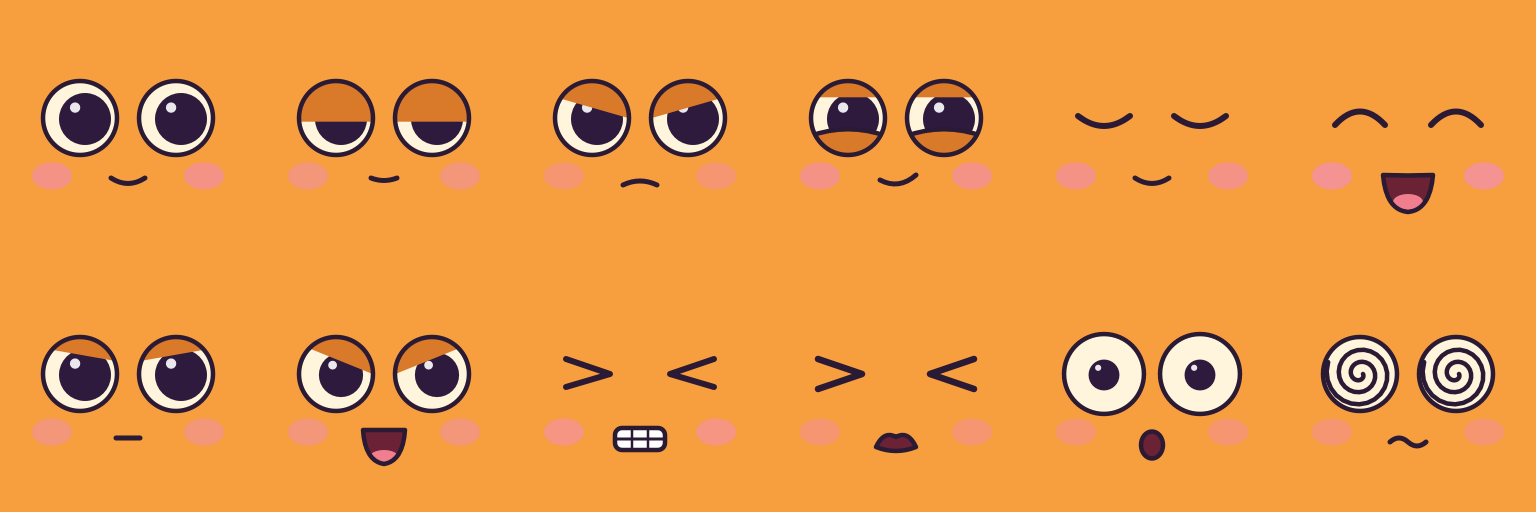
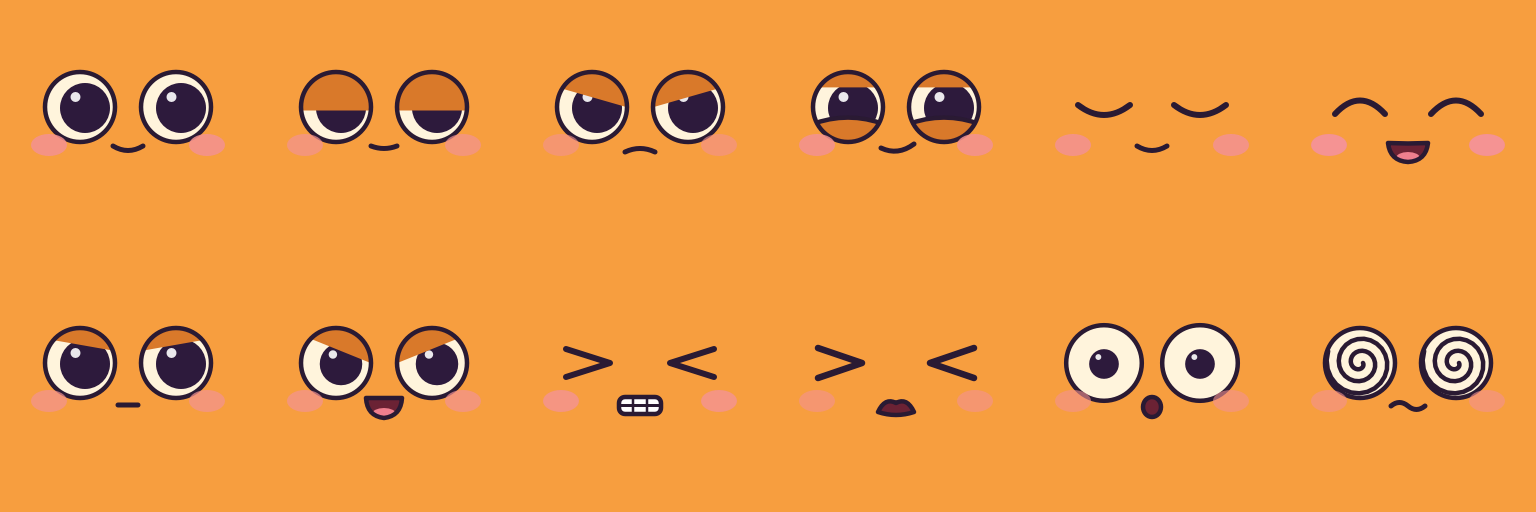
Faces: mouths and cheeks inside the face shell; glasses on the new eyes
The face shell only shows the drawing down to about row 320, so the redrawn faces' mouths and cheeks were cut off. Eyes, cheeks and
mouth now sit higher, as in the concept art; the glasses fit follows the eyes' new place.

diff --git a/tools/art/make_faces.py b/tools/art/make_faces.py
@@ -18,9 +18,11 @@ MOUTH_IN = '#6b2234'
 TONGUE = '#ef7f8e'
 LID = '#fe00ff'
 
-EYES = [(160, 236), (352, 236)]
-R_EYE = 74       # the cream ring's radius
-R_PUPIL = 52
+# The face shell shows the drawing down to about row 320, so everything sits above that: eyes, cheeks level with their bottoms, and
+# the mouth just under them, as in the concept art.
+EYES = [(160, 214), (352, 214)]
+R_EYE = 70       # the cream ring's radius
+R_PUPIL = 50
 LOOK = 10        # how far the pupils sit toward the right
 
 
@@ -29,7 +31,7 @@ def svg(body):
 
 
 def cheeks(op=0.85):
-    return ''.join(f'  <ellipse cx="{x}" cy="352" rx="40" ry="27" fill="{CHEEK}" opacity="{op}"/>\n' for x in (104, 408))
+    return ''.join(f'  <ellipse cx="{x}" cy="290" rx="36" ry="22" fill="{CHEEK}" opacity="{op}"/>\n' for x in (98, 414))
 
 
 def eye(cx, cy, scale=1.0, pupil=1.0, lid_top=None, lid_tilt=0.0, lower=None, look=LOOK, uid='e'):
@@ -66,14 +68,14 @@ def line(d, w=10):
     return f'  <path d="{d}" fill="none" stroke="{INK}" stroke-width="{w}" stroke-linecap="round" stroke-linejoin="round"/>\n'
 
 
-def smile(width=34, depth=22, y=356, w=10):
+def smile(width=30, depth=18, y=292, w=10):
     return line(f'M{256 - width},{y} Q256,{y + depth} {256 + width},{y}', w)
 
 
 def open_mouth(path, tongue=True):
     out = f'  <clipPath id="m"><path d="{path}"/></clipPath>\n  <path d="{path}" fill="{MOUTH_IN}"/>\n'
     if tongue:
-        out += f'  <ellipse cx="256" cy="404" rx="30" ry="16" fill="{TONGUE}" clip-path="url(#m)"/>\n'
+        out += f'  <ellipse cx="256" cy="316" rx="24" ry="12" fill="{TONGUE}" clip-path="url(#m)"/>\n'
     return out + f'  <path d="{path}" fill="none" stroke="{INK}" stroke-width="9" stroke-linejoin="round"/>\n'
 
 
@@ -88,21 +90,21 @@ FACES = {
     # The concept art's face: open, round, a small smile.
     'deadpan': eyes() + cheeks() + smile(),
     'sleepy': eyes(lid_top=0.55) + cheeks(0.7) + smile(26, 10),
-    'grumpy': eyes(lid_top=0.36, lid_tilt=16) + cheeks(0.6) + line('M222,370 Q256,354 290,370', 10),
-    'smug': eyes(lower=0.32, lid_top=0.22) + cheeks() + line('M224,360 Q262,380 296,350', 10),
+    'grumpy': eyes(lid_top=0.36, lid_tilt=16) + cheeks(0.6) + line('M226,304 Q256,290 286,304', 10),
+    'smug': eyes(lower=0.32, lid_top=0.22) + cheeks() + line('M226,296 Q260,312 292,288', 10),
     'blink': closed_eye(*EYES[0]) + closed_eye(*EYES[1]) + cheeks() + smile(),
     'happy': closed_eye(*EYES[0], happy=True) + closed_eye(*EYES[1], happy=True) + cheeks(1.0)
-    + open_mouth('M206,350 Q256,352 306,350 Q300,420 256,424 Q212,420 206,350 Z'),
-    'focus': eyes(lid_top=0.24, lid_tilt=10) + cheeks(0.7) + line('M232,364 L280,364', 10),
+    + open_mouth('M216,286 Q256,288 296,286 Q292,322 256,324 Q220,322 216,286 Z'),
+    'focus': eyes(lid_top=0.24, lid_tilt=10) + cheeks(0.7) + line('M236,298 L276,298', 10),
     'attack': eyes(lid_top=0.3, lid_tilt=22, pupil=0.85) + cheeks(0.7)
-    + open_mouth('M214,348 L298,348 Q294,410 256,416 Q218,410 214,348 Z'),
-    'effort': line('M108,206 L196,236 L108,262', 12) + line('M404,206 L316,236 L404,262', 12) + cheeks(0.8)
-    + f'  <rect x="206" y="344" width="100" height="44" rx="14" fill="#ffffff" stroke="{INK}" stroke-width="9"/>\n'
-    + line('M206,366 L306,366', 6) + line('M240,344 L240,388', 5) + line('M272,344 L272,388', 5),
-    'hurt': line('M100,206 L188,236 L100,266', 13) + line('M412,206 L324,236 L412,266', 13) + cheeks(0.6)
-    + open_mouth('M216,382 Q232,348 256,362 Q280,348 296,382 Q256,398 216,382 Z', tongue=False),
+    + open_mouth('M220,284 L292,284 Q290,320 256,324 Q222,320 220,284 Z'),
+    'effort': line('M108,186 L196,214 L108,242', 12) + line('M404,186 L316,214 L404,242', 12) + cheeks(0.8)
+    + f'  <rect x="214" y="282" width="84" height="34" rx="12" fill="#ffffff" stroke="{INK}" stroke-width="9"/>\n'
+    + line('M214,299 L298,299', 6) + line('M242,282 L242,316', 5) + line('M270,282 L270,316', 5),
+    'hurt': line('M100,184 L188,214 L100,244', 13) + line('M412,184 L324,214 L412,244', 13) + cheeks(0.6)
+    + open_mouth('M220,312 Q234,282 256,294 Q278,282 292,312 Q256,324 220,312 Z', tongue=False),
     'shock': eyes(scale=1.08, pupil=0.55, look=0) + cheeks(0.6)
-    + f'  <ellipse cx="256" cy="378" rx="22" ry="27" fill="{MOUTH_IN}" stroke="{INK}" stroke-width="9"/>\n',
+    + f'  <ellipse cx="256" cy="302" rx="18" ry="20" fill="{MOUTH_IN}" stroke="{INK}" stroke-width="9"/>\n',
 }
 
 
@@ -116,7 +118,7 @@ def spiral(cx, cy):
             + line('M' + ' L'.join(pts), 9))
 
 
-FACES['dazed'] = spiral(*EYES[0]) + spiral(*EYES[1]) + cheeks(0.6) + line('M220,372 Q238,356 256,372 Q274,388 292,372', 10)
+FACES['dazed'] = spiral(*EYES[0]) + spiral(*EYES[1]) + cheeks(0.6) + line('M222,300 Q239,286 256,300 Q273,314 290,300', 10)
 
 for name, body in FACES.items():
     open(OUT + name + '.svg', 'w', newline='\n').write(svg(body))

diff --git a/docs/ART_PIPELINE.md b/docs/ART_PIPELINE.md
@@ -619,3 +619,6 @@ haze and the colour grade after play-testing.
   the fighter's own colour. The drawing is shown 1.15 times the shell's square (`face_zoom` in `shaders/face.gdshader`), since the
   concept's eyes are big for the head. The calm face is the one named `deadpan` in the catalog (kept, so saved fighters keep their face).
   Sheet: `docs/screenshots/faces_concept_style.png`.
+- **The face fits the shell**: the face shell shows the drawing down to about row 320 of 512, so eyes (middles on row 214), cheeks
+  (level with the bottoms of the eyes) and mouth (just under them) all sit above that; the first redraw had the mouth and cheeks
+  lower, where they were cut off. The glasses follow the eyes' place on the head (`FACE_EYE_ROW`, `FACE_EYE_OUT`).
